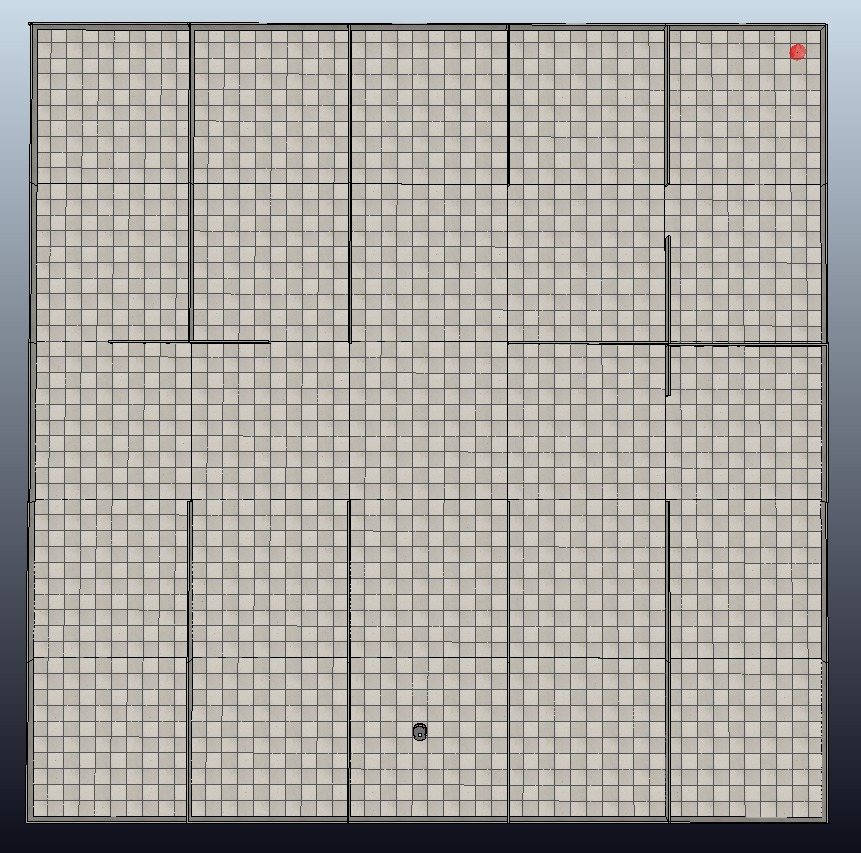
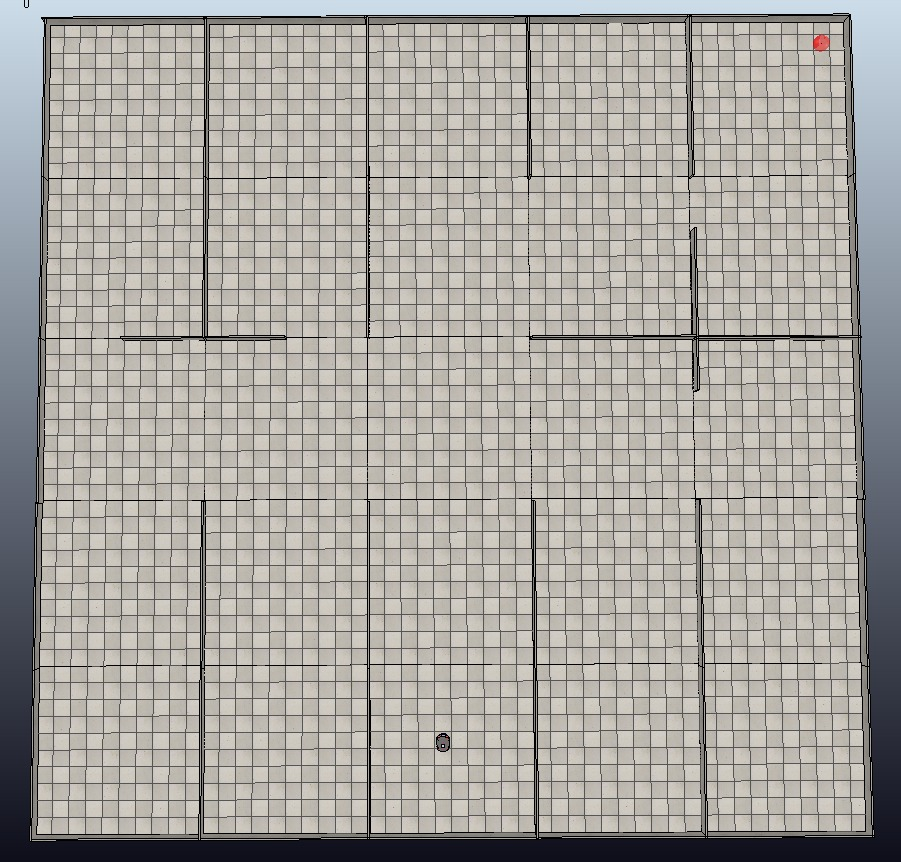
bugFix getting the right pointers on the edges of the wall

diff --git a/v1/vision.py b/v1/vision.py
@@ -21,19 +21,21 @@ def convertFromSceneCoord( sceneX, sceneY, img_height, img_width ):
     return (imageX, imageY)
 
 def getImageWalls(img):
-
     wall_image = np.copy(img) * 0  # creating a blank to draw lines on
 
     lower_color_wall = np.array([100,100,100])
     upper_color_wall = np.array([136,143,146])
     mask_wall = cv.inRange(img, lower_color_wall, upper_color_wall)
-
     lines_wall = cv.HoughLinesP(mask_wall, 1, np.pi / 180, 3, np.array([]), 100, 50)
+
+    cv.imshow('mask_wall',cv.resize(mask_wall, dsize=None, fx=0.7, fy=0.7)) 
 
     lower_color_wall = np.array([210,210,210])
     upper_color_wall = np.array([255,255,255])
     mask_write = cv.inRange(img, lower_color_wall, upper_color_wall)
-    lines_write = cv.HoughLinesP(mask_write, 1, np.pi / 180, 3, np.array([]), 100, 50)
+    lines_write = cv.HoughLinesP(mask_write, 1, np.pi / 180, 3, np.array([]), 30, 30)
+
+    cv.imshow('mask_write',cv.resize(mask_write, dsize=None, fx=0.7, fy=0.7)) 
 
     if lines_wall is not None and lines_write is not None:
         lines = np.append( lines_wall, lines_black, axis=0 )
@@ -45,7 +47,9 @@ def getImageWalls(img):
     lower_color_black = np.array([0,0,0])
     upper_color_black = np.array([2,2,2])
     mask_black = cv.inRange(img, lower_color_black, upper_color_black)
-    lines_black = cv.HoughLinesP(mask_black, 1, np.pi / 180, 7, np.array([]), 30, 40)
+    lines_black = cv.HoughLinesP(mask_black, 1, np.pi / 180, 7, np.array([]), 40, 27)
+
+    cv.imshow('mask_black',cv.resize(mask_black, dsize=None, fx=0.7, fy=0.7)) 
 
     if lines.any():
         lines = np.append( lines, lines_black, axis=0 )
@@ -61,7 +65,7 @@ def getImageWalls(img):
 def getCorners(img):
     corners_image = np.copy(img)
     gray = cv.cvtColor(img, cv.COLOR_BGR2GRAY)
-    corners = cv.goodFeaturesToTrack(gray, 50, 0.001, 5)
+    corners = cv.goodFeaturesToTrack(gray, 100, 0.001, 3)
     corners = np.int0(corners)
 
     for corner in corners:
@@ -72,7 +76,7 @@ def getCorners(img):
 
 
 
-IMAGE_NAME = 'image1.jpeg'
+IMAGE_NAME = 'image2.jpeg'
 img = cv.imread(IMAGE_NAME, cv.IMREAD_COLOR)
 
 lines, lines_image = getImageWalls(img)
